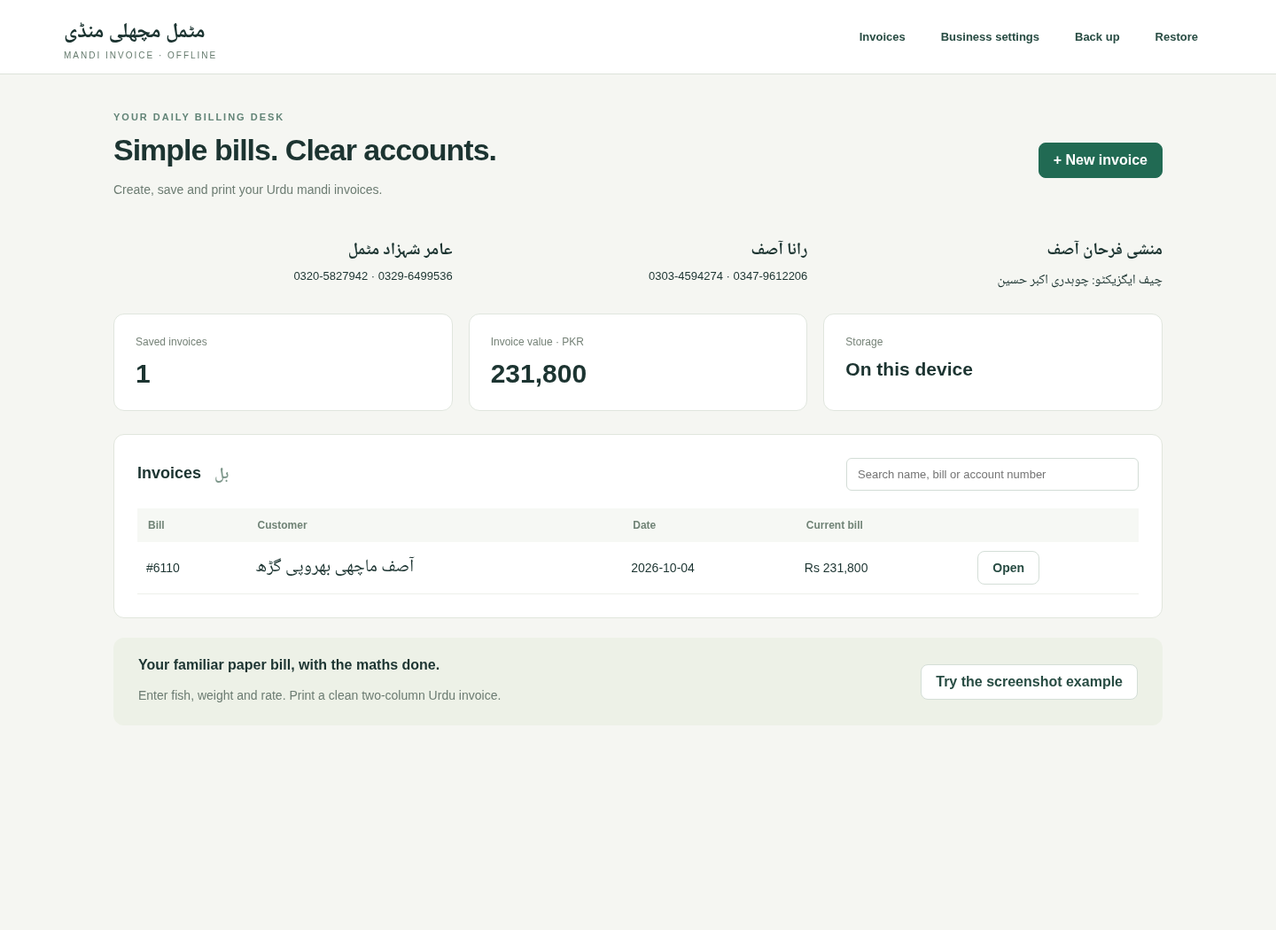
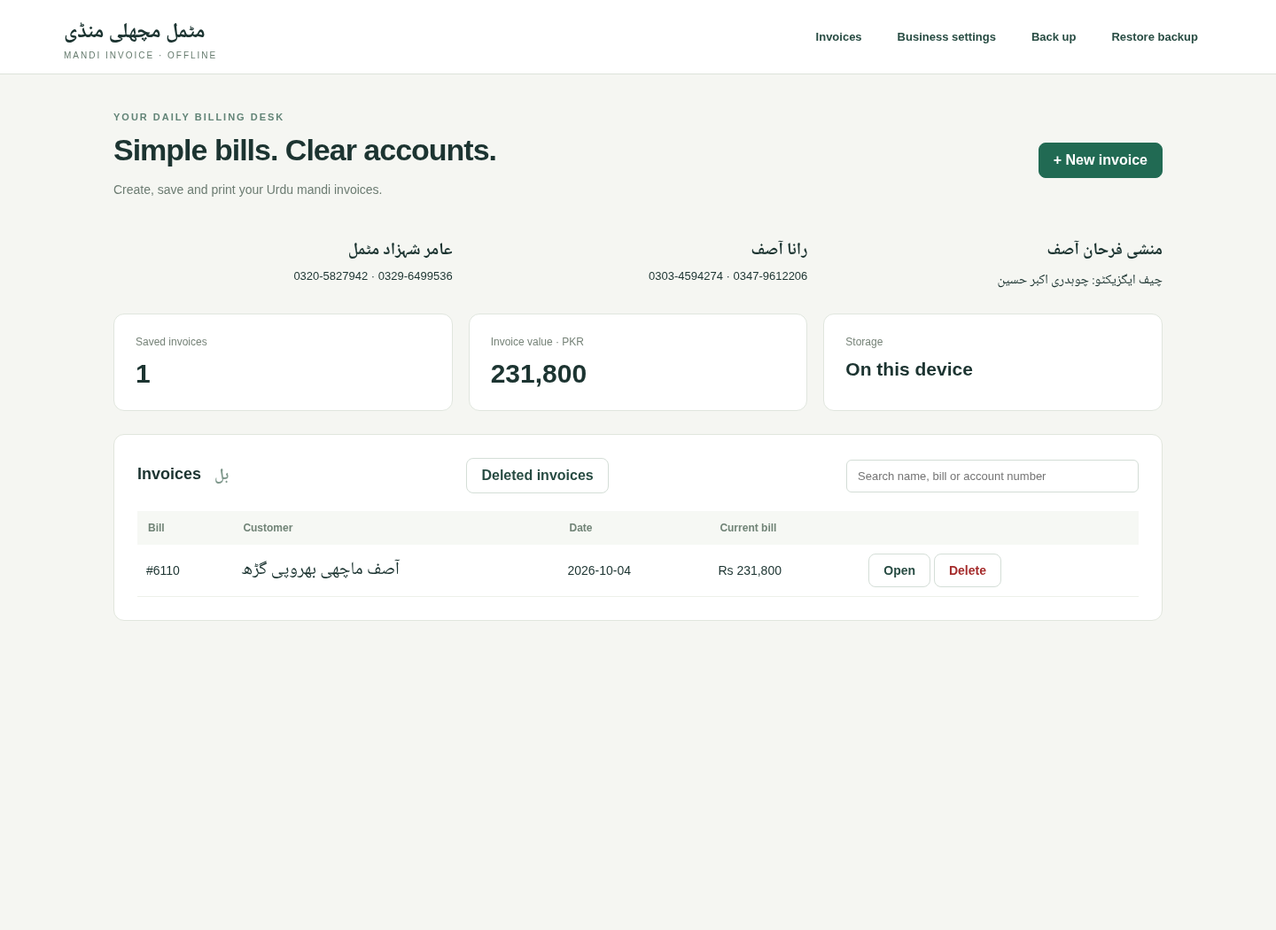
Add recoverable invoice deletion and save-discard-cancel navigation

diff --git a/src/app.js b/src/app.js
@@ -1,20 +1,30 @@
-import {customerKey,customerOption,findCustomer,closingBalance,effectiveInvoice,validateCustomerLinks} from './customer-balance.js';
+import {ask} from './dialogs.js';
+import {customerKey,customerOption,findCustomer,closingBalance,effectiveInvoice,validateCustomerLinks,deleteInvoice,restoreInvoice} from './customer-balance.js';
 import {pickerHTML,bindPicker} from './fish-picker.js';
-import {blankInvoice,sampleInvoice,species,totals,validateInvoice,validateStore,emptyStore,defaultBusiness,upgradeBusinessDefaults} from './model.js';
+import {blankInvoice,species,totals,validateInvoice,validateStore,emptyStore,defaultBusiness,upgradeBusinessDefaults} from './model.js';
 import {invoiceHTML,esc,money} from './print.js';
 const app=document.querySelector('#app');
-let store, draft, dirty=false, picker;
+let store, draft, dirty=false, picker, leavePromise, saving=false;
+const activeInvoices=()=>store.invoices.filter(i=>!i.deletedAt);
 const localKey='mandi-invoice-v1';
 const toast=(text,error=false)=>{const el=document.querySelector('#toast');el.textContent=text;el.className=error?'visible error':'visible';setTimeout(()=>el.className='',5000);};
-async function persist(next){validateCustomerLinks(next.invoices);if(window.desktop)await window.desktop.save(next);else localStorage.setItem(localKey,JSON.stringify(next));store=next;renderBrand();}
+async function persist(next){validateCustomerLinks(next.invoices);const controls=[...document.querySelectorAll('button,input,textarea')].map(el=>[el,el.disabled]);controls.forEach(([el])=>el.disabled=true);try{if(window.desktop)await window.desktop.save(next);else localStorage.setItem(localKey,JSON.stringify(next));store=next;renderBrand();}finally{controls.forEach(([el,disabled])=>el.disabled=disabled);}}
 function renderBrand(){document.querySelector('.brand').textContent=store.business.name;document.title=store.business.name+' · Mandi Invoice';}
-function leave(){return !dirty||confirm('Leave without saving your changes?');}
+async function leave(){
+ if(leavePromise)return leavePromise;
+ if(saving){toast('Please wait for saving to finish.');return false;}
+ if(!dirty)return true;
+ leavePromise=(async()=>{const choice=await ask({title:'Save your changes?',message:'You have unsaved changes. Save them before leaving, or discard them.',choices:[{value:'cancel',label:'Cancel'},{value:'discard',label:'Discard changes'},{value:'save',label:'Save changes',primary:true}]});
+ if(choice==='discard'){dirty=false;return true;}
+ if(choice==='save')return document.querySelector('#business')?await saveSettings():await save();
+ return false;})();try{return await leavePromise;}finally{leavePromise=null;}
+}
 function nextNumber(){return String(Math.max(0,...store.invoices.map(i=>Number(i.number)||0))+1);}
-function home(){dirty=false;draft=null;renderBrand();app.innerHTML=`<section class="page-title"><div><span class="eyebrow">YOUR DAILY BILLING DESK</span><h1>Simple bills. Clear accounts.</h1><p>Create, save and print your Urdu mandi invoices.</p></div><button class="primary" id="new">+ New invoice</button></section><section class="business-contacts" aria-label="Business contacts"><div dir="rtl"><strong>${esc(store.business.leftName)}</strong><span dir="ltr">${esc(store.business.leftPhones).replaceAll('\n',' · ')}</span></div><div dir="rtl"><strong>${esc(store.business.rightName)}</strong><span dir="ltr">${esc(store.business.rightPhones).replaceAll('\n',' · ')}</span></div><div dir="rtl"><strong>${esc(store.business.manager)}</strong><span>${esc(store.business.tagline)}</span></div></section><div class="stats"><div><span>Saved invoices</span><strong>${store.invoices.length}</strong></div><div><span>Invoice value · PKR</span><strong>${money(store.invoices.reduce((s,i)=>s+totals(i).current,0))}</strong></div><div><span>Storage</span><strong class="small">On this device</strong></div></div><section class="card"><div class="section-head"><h2>Invoices <span class="urdu">بل</span></h2><input id="search" placeholder="Search name, bill or account number" aria-label="Search invoices"></div><div id="list"></div></section><section class="tip"><div><strong>Your familiar paper bill, with the maths done.</strong><p>Enter fish, weight and rate. Print a clean two-column Urdu invoice.</p></div><button id="sample">Try the screenshot example</button></section>`;
- document.querySelector('#new').onclick=()=>editor({...blankInvoice(),number:nextNumber()});document.querySelector('#sample').onclick=()=>editor(sampleInvoice());
- const list=()=>{const q=document.querySelector('#search').value.toLowerCase();const found=store.invoices.filter(i=>[i.customer,i.number,i.account].some(v=>v.toLowerCase().includes(q)));document.querySelector('#list').innerHTML=found.length?`<table class="list-table"><thead><tr><th>Bill</th><th>Customer</th><th>Date</th><th>Current bill</th><th></th></tr></thead><tbody>${found.map(i=>`<tr><td>#${esc(i.number)}</td><td dir="rtl">${esc(i.customer)}</td><td>${esc(i.date)}</td><td>Rs ${money(totals(i).current)}</td><td><button data-open="${esc(i.id)}">Open</button></td></tr>`).join('')}</tbody></table>`:'<div class="empty-state"><span>▤</span><h3>No invoices here yet</h3><p>Start a new bill or try the screenshot example.</p></div>';document.querySelectorAll('[data-open]').forEach(b=>b.onclick=()=>editor(structuredClone(store.invoices.find(i=>i.id===b.dataset.open))));};document.querySelector('#search').oninput=list;list();}
+function home(showTrash=false){dirty=false;draft=null;renderBrand();app.innerHTML=`<section class="page-title"><div><span class="eyebrow">YOUR DAILY BILLING DESK</span><h1>Simple bills. Clear accounts.</h1><p>Create, save and print your Urdu mandi invoices.</p></div><button class="primary" id="new">+ New invoice</button></section><section class="business-contacts" aria-label="Business contacts"><div dir="rtl"><strong>${esc(store.business.leftName)}</strong><span dir="ltr">${esc(store.business.leftPhones).replaceAll('\n',' · ')}</span></div><div dir="rtl"><strong>${esc(store.business.rightName)}</strong><span dir="ltr">${esc(store.business.rightPhones).replaceAll('\n',' · ')}</span></div><div dir="rtl"><strong>${esc(store.business.manager)}</strong><span>${esc(store.business.tagline)}</span></div></section><div class="stats"><div><span>Saved invoices</span><strong>${activeInvoices().length}</strong></div><div><span>Invoice value · PKR</span><strong>${money(activeInvoices().reduce((s,i)=>s+totals(i).current,0))}</strong></div><div><span>Storage</span><strong class="small">On this device</strong></div></div><section class="card"><div class="section-head"><h2>${showTrash?'Deleted invoices':'Invoices'} <span class="urdu">بل</span></h2><button id="toggle-trash">${showTrash?'Back to invoices':'Deleted invoices'}</button><input id="search" placeholder="Search name, bill or account number" aria-label="Search invoices"></div><div id="list"></div></section>`;
+ document.querySelector('#new').onclick=()=>editor({...blankInvoice(),number:nextNumber()});
+ const list=()=>{const q=document.querySelector('#search').value.toLowerCase();const found=store.invoices.filter(i=>Boolean(i.deletedAt)===showTrash).filter(i=>[i.customer,i.number,i.account].some(v=>v.toLowerCase().includes(q)));document.querySelector('#list').innerHTML=found.length?`<table class="list-table"><thead><tr><th>Bill</th><th>Customer</th><th>Date</th><th>Current bill</th><th></th></tr></thead><tbody>${found.map(i=>`<tr><td>#${esc(i.number)}</td><td dir="rtl">${esc(i.customer)}</td><td>${esc(i.date)}</td><td>Rs ${money(totals(i).current)}</td><td>${showTrash?`<button data-restore="${esc(i.id)}">Restore</button>`:`<button data-open="${esc(i.id)}">Open</button> <button class="danger" data-delete="${esc(i.id)}">Delete</button>`}</td></tr>`).join('')}</tbody></table>`:`<div class="empty-state"><span>▤</span><h3>${showTrash?'No deleted invoices':'No invoices here yet'}</h3><p>${showTrash?'Invoices you delete will appear here for recovery.':'Create your first invoice to start tracking sales and customer balances.'}</p></div>`;document.querySelectorAll('[data-open]').forEach(b=>b.onclick=()=>editor(structuredClone(store.invoices.find(i=>i.id===b.dataset.open))));document.querySelectorAll('[data-delete]').forEach(b=>b.onclick=()=>removeInvoice(b.dataset.delete));document.querySelectorAll('[data-restore]').forEach(b=>b.onclick=async()=>{try{await persist({...store,invoices:restoreInvoice(store.invoices,b.dataset.restore)});home(true);toast('Invoice restored.');}catch(e){toast(e.message,true);}});};document.querySelector('#toggle-trash').onclick=()=>home(!showTrash);document.querySelector('#search').oninput=list;list();}
 function field(label,key,value,type='text',extra=''){return `<label>${label}<input name="${key}" type="${type}" value="${esc(value)}" ${extra}></label>`;}
-function editor(i){i=effectiveInvoice(i,store.invoices);draft=i;dirty=false;app.innerHTML=`<section class="editor-title"><div><span class="eyebrow">NEW / EDIT INVOICE</span><h1>Make a bill <span class="urdu">نیا بل</span></h1></div><div class="actions"><button id="cancel">Back</button><button id="preview">Preview & print</button><button class="primary" id="save">Save invoice</button></div></section><form id="editor"><section class="card"><h2><em>1</em> Customer & bill details</h2><div class="fields">${field('Customer name · نام گاہک','customer',i.customer,'text','dir="auto" list="customers" required')}${field('Phone · فون','phone',i.phone)}${field('Address · پتہ','address',i.address,'text','dir="auto"')}${field('Account number · کھاتہ','account',i.account)}${field('Bill number · بل نمبر','number',i.number,'text','required')}${field('Date · تاریخ','date',i.date,'date','required')}</div></section><section class="card"><div class="section-head"><h2><em>2</em> Fish, weight & rate</h2><span class="help">Rate per 40 kg (1 maund) · Fractions of a rupee rounded down per row</span></div>${pickerHTML()}<div class="item-scroll"><table class="items"><thead><tr><th>#</th><th>Fish · تفصیل</th><th>Weight (kg) · وزن</th><th>Rate / 40 kg · ریٹ</th><th>Amount · قیمت</th><th></th></tr></thead><tbody id="rows"></tbody></table></div><datalist id="customers">${[...new Set(store.invoices.map(customerOption))].map(n=>`<option value="${esc(n)}">`).join('')}</datalist><datalist id="species">${[...new Set([...species,...store.invoices.flatMap(i=>i.rows.map(r=>r.species))])].map(s=>`<option value="${esc(s)}">`).join('')}</datalist><button type="button" id="add">+ Add fish</button><div class="item-total" id="item-total"></div></section><section class="card"><h2><em>3</em> Charges & balance</h2><div class="fields charges">${field('Commission (%) · کمیشن','commission',i.commission,'number','min="0" max="100" step="0.01"')}${field('Munshiana / fee (Rs) · منشیانہ','fee',i.fee,'number','min="0" step="1"')}${field('Labour (Rs) · مزدوری','labour',i.labour,'number','min="0" step="1"')}${field('Freight (Rs) · کرایہ','freight',i.freight,'number','min="0" step="1"')}${field('Other charges (Rs) · دیگر','other',i.other,'number','min="0" step="1"')}${field('Previous balance (Rs) · سابقہ بقایا','previous',i.previous,'number',`step="1" ${i.previousSourceId?'readonly':''}`)}${field('Received (Rs) · نقد وصولی','paid',i.paid,'number','min="0" step="1"')}${field('Note · نوٹ','notes',i.notes,'text','dir="auto"')}</div><p id="balance-help" class="help">Returning customer balances fill automatically from their latest saved bill. Negative amounts are customer credit.</p></section><div id="live-totals" class="totals-bar" aria-live="polite"></div><p id="validation" role="alert"></p></form>`;
+function editor(i){i=effectiveInvoice(i,store.invoices);draft=i;dirty=false;app.innerHTML=`<section class="editor-title"><div><span class="eyebrow">NEW / EDIT INVOICE</span><h1>Make a bill <span class="urdu">نیا بل</span></h1></div><div class="actions"><button id="cancel">Back</button><button id="preview">Preview & print</button><button class="primary" id="save">Save invoice</button></div></section><form id="editor"><section class="card"><h2><em>1</em> Customer & bill details</h2><div class="fields">${field('Customer name · نام گاہک','customer',i.customer,'text','dir="auto" list="customers" required')}${field('Phone · فون','phone',i.phone)}${field('Address · پتہ','address',i.address,'text','dir="auto"')}${field('Account number · کھاتہ','account',i.account)}${field('Bill number · بل نمبر','number',i.number,'text','required')}${field('Date · تاریخ','date',i.date,'date','required')}</div></section><section class="card"><div class="section-head"><h2><em>2</em> Fish, weight & rate</h2><span class="help">Rate per 40 kg (1 maund) · Fractions of a rupee rounded down per row</span></div>${pickerHTML()}<div class="item-scroll"><table class="items"><thead><tr><th>#</th><th>Fish · تفصیل</th><th>Weight (kg) · وزن</th><th>Rate / 40 kg · ریٹ</th><th>Amount · قیمت</th><th></th></tr></thead><tbody id="rows"></tbody></table></div><datalist id="customers">${[...new Set(activeInvoices().map(customerOption))].map(n=>`<option value="${esc(n)}">`).join('')}</datalist><datalist id="species">${[...new Set([...species,...store.invoices.flatMap(i=>i.rows.map(r=>r.species))])].map(s=>`<option value="${esc(s)}">`).join('')}</datalist><button type="button" id="add">+ Add fish</button><div class="item-total" id="item-total"></div></section><section class="card"><h2><em>3</em> Charges & balance</h2><div class="fields charges">${field('Commission (%) · کمیشن','commission',i.commission,'number','min="0" max="100" step="0.01"')}${field('Munshiana / fee (Rs) · منشیانہ','fee',i.fee,'number','min="0" step="1"')}${field('Labour (Rs) · مزدوری','labour',i.labour,'number','min="0" step="1"')}${field('Freight (Rs) · کرایہ','freight',i.freight,'number','min="0" step="1"')}${field('Other charges (Rs) · دیگر','other',i.other,'number','min="0" step="1"')}${field('Previous balance (Rs) · سابقہ بقایا','previous',i.previous,'number',`step="1" ${i.previousSourceId?'readonly':''}`)}${field('Received (Rs) · نقد وصولی','paid',i.paid,'number','min="0" step="1"')}${field('Note · نوٹ','notes',i.notes,'text','dir="auto"')}</div><p id="balance-help" class="help">Returning customer balances fill automatically from their latest saved bill. Negative amounts are customer credit.</p></section><div id="live-totals" class="totals-bar" aria-live="polite"></div><p id="validation" role="alert"></p></form>`;
  drawRows();recalc();
  picker=bindPicker({onChange:()=>dirty=true,onAdd:row=>{if(draft.rows.length===1&&Number(draft.rows[0].weight)===0&&Number(draft.rows[0].rate)===0)draft.rows[0]=row;else draft.rows.push(row);dirty=true;drawRows();recalc();}});
  document.querySelector('[name=customer]').addEventListener('change',e=>{try{
@@ -27,16 +37,27 @@ function editor(i){i=effectiveInvoice(i,store.invoices);draft=i;dirty=false;app.
  }catch(err){toast(err.message,true);}});
  document.querySelector('#editor').onsubmit=e=>e.preventDefault();document.querySelector('#editor').oninput=e=>{if(e.target.name){draft[e.target.name]=e.target.value;dirty=true;recalc();}};
  document.querySelector('#add').onclick=()=>{draft.rows.push({species:species[0],weight:0,rate:0});dirty=true;drawRows();recalc();document.querySelector('#rows tr:last-child input').focus();};
- document.querySelector('#save').onclick=save;document.querySelector('#preview').onclick=()=>{try{if(picker?.hasPending())throw new Error('Add the entered lot before saving or previewing.');if(!draft.previousSourceId&&!store.invoices.some(x=>x.id===draft.id)){const matched=findCustomer(store.invoices,draft.customer);if(matched&&!draft.previousSourceId)throw new Error('Select the returning customer before saving or previewing.');}draft=effectiveInvoice(draft,store.invoices);validateInvoice(draft);preview();}catch(e){toast(e.message,true);}};document.querySelector('#cancel').onclick=()=>{if(leave())home();};}
+ document.querySelector('#save').onclick=save;document.querySelector('#preview').onclick=()=>{try{if(picker?.hasPending())throw new Error('Add the entered lot before saving or previewing.');if(!draft.previousSourceId&&!store.invoices.some(x=>x.id===draft.id)){const matched=findCustomer(store.invoices,draft.customer);if(matched&&!draft.previousSourceId)throw new Error('Select the returning customer before saving or previewing.');}draft=effectiveInvoice(draft,store.invoices);validateInvoice(draft);preview();}catch(e){toast(e.message,true);}};document.querySelector('#cancel').onclick=async()=>{if(await leave())home();};}
 function drawRows(){document.querySelector('#rows').innerHTML=draft.rows.map((r,j)=>`<tr><td>${j+1}</td><td><input aria-label="Fish ${j+1}" data-row="${j}" data-key="species" dir="rtl" list="species" value="${esc(r.species)}"></td><td><input aria-label="Weight ${j+1}" data-row="${j}" data-key="weight" type="number" min="0" step="0.001" value="${r.weight}"></td><td><input aria-label="Rate ${j+1}" data-row="${j}" data-key="rate" type="number" min="0" step="0.01" value="${r.rate}"></td><td data-amount="${j}"></td><td><button type="button" aria-label="Remove item ${j+1}" data-remove="${j}" ${draft.rows.length===1?'disabled':''}>×</button></td></tr>`).join('');document.querySelectorAll('[data-row]').forEach(el=>el.oninput=()=>{draft.rows[Number(el.dataset.row)][el.dataset.key]=el.value;dirty=true;recalc();});document.querySelectorAll('[data-remove]').forEach(el=>el.onclick=()=>{draft.rows.splice(Number(el.dataset.remove),1);dirty=true;drawRows();recalc();});}
 function recalc(){try{const t=totals(draft);document.querySelector('#validation').textContent='';t.lines.forEach((n,j)=>document.querySelector(`[data-amount="${j}"]`).textContent=money(n));document.querySelector('#item-total').textContent=`${t.weight} kg · ${t.maunds} maund + ${t.remainder} kg · Goods: Rs ${money(t.subtotal)}`;document.querySelector('#live-totals').innerHTML=`<div><span>Goods + commission + fee</span><strong>Rs ${money(t.merchandise)}</strong></div><div><span>This bill · موجودہ بل</span><strong>Rs ${money(t.current)}</strong></div><div><span>Balance due · واجب الوصول</span><strong>Rs ${money(t.balance)}</strong></div>`;}catch(e){document.querySelector('#validation').textContent=e.message;document.querySelector('#live-totals').textContent='Complete the amounts above to calculate totals.';}}
-async function save(){try{if(picker?.hasPending())throw new Error('Add the entered lot before saving or previewing.');if(!draft.previousSourceId&&!store.invoices.some(x=>x.id===draft.id)){const matched=findCustomer(store.invoices,draft.customer);if(matched&&!draft.previousSourceId)throw new Error('Select the returning customer before saving or previewing.');}draft=effectiveInvoice(draft,store.invoices);validateInvoice(draft);if(store.invoices.some(i=>i.number===draft.number&&i.id!==draft.id))throw new Error('That bill number already exists. Choose a different number.');draft.business ??= structuredClone(store.business);const next=structuredClone(store);const idx=next.invoices.findIndex(i=>i.id===draft.id);if(idx>=0)next.invoices[idx]=structuredClone(draft);else next.invoices.unshift(structuredClone(draft));validateCustomerLinks(next.invoices);await persist(next);dirty=false;toast('Invoice saved on this device.');}catch(e){toast(e.message,true);}}
+async function save(){if(saving)return false;saving=true;try{if(picker?.hasPending())throw new Error('Add the entered lot before saving or previewing.');if(!draft.previousSourceId&&!store.invoices.some(x=>x.id===draft.id)){const matched=findCustomer(store.invoices,draft.customer);if(matched&&!draft.previousSourceId)throw new Error('Select the returning customer before saving or previewing.');}draft=effectiveInvoice(draft,store.invoices);validateInvoice(draft);if(store.invoices.some(i=>i.number===draft.number&&i.id!==draft.id))throw new Error('That bill number already exists. Choose a different number.');draft.business ??= structuredClone(store.business);const next=structuredClone(store);const idx=next.invoices.findIndex(i=>i.id===draft.id);if(idx>=0)next.invoices[idx]=structuredClone(draft);else next.invoices.unshift(structuredClone(draft));validateCustomerLinks(next.invoices);await persist(next);dirty=false;toast('Invoice saved on this device.');return true;}catch(e){toast(e.message,true);return false;}finally{saving=false;}}
 function preview(){app.innerHTML=`<div class="preview-toolbar"><button id="edit">← Back to editing</button><span>Print preview · A4 landscape · 100% scale · no browser headers</span><div class="actions"><button id="print">Print</button><button id="save-pdf" class="primary">Save as PDF</button></div></div><div class="print-area">${invoiceHTML(draft,draft.business||store.business)}</div>`;document.querySelector('#edit').onclick=()=>{const wasDirty=dirty;editor(draft);dirty=wasDirty;};async function output(kind){const buttons=[...document.querySelectorAll('.app-header button,.preview-toolbar button')];buttons.forEach(b=>b.disabled=true);try{await document.fonts.ready;if(kind==='pdf'&&window.desktop){if(await window.desktop.savePDF(draft.number))toast('PDF saved.');}else if(window.desktop)await window.desktop.print();else{if(kind==='pdf')toast('In your browser, choose Save as PDF in the print dialog. The desktop app saves directly.');window.print();}}catch(e){toast(e.message,true);}finally{buttons.forEach(b=>b.disabled=false);}}document.querySelector('#print').onclick=()=>output('print');document.querySelector('#save-pdf').onclick=()=>output('pdf');}
-function settings(){if(!leave())return;dirty=false;draft=null;app.innerHTML=`<section class="page-title"><div><span class="eyebrow">SET UP ONCE</span><h1>Your business, your bill.</h1><p>All Urdu names and contact details are editable. Confirm the small text against your original invoice.</p></div></section><form id="business" class="card"><div class="fields">${Object.entries(store.business).map(([k,v])=>`<label>${esc(({name:'Business name',subtitle:'Address',tagline:'Tagline',rightTitle:'Owner title',rightName:'Owner name',rightPhones:'Owner phone numbers',leftName:'Left contact name',leftPhones:'Left contact phone',manager:'Manager',managerPhones:'Manager phone numbers'})[k]||k)}<textarea name="${esc(k)}" dir="auto">${esc(v)}</textarea></label>`).join('')}</div><div class="settings-actions"><button class="primary">Save settings</button><button type="button" id="apply-sign">Use details from the shop sign</button></div></form>`;document.querySelector('#apply-sign').onclick=()=>{if(!confirm('Replace these business fields with the details from the shop sign? Save settings to apply. Existing saved invoice headers stay unchanged.'))return;for(const [key,value] of Object.entries(defaultBusiness))document.querySelector(`#business [name=${key}]`).value=value;dirty=true;};document.querySelector('#business').oninput=()=>dirty=true;document.querySelector('#business').onsubmit=async e=>{e.preventDefault();try{const business=Object.fromEntries(new FormData(e.target));if(!business.name.trim())throw new Error('Enter a business name.');await persist({...store,business});dirty=false;toast('Business settings saved.');home();}catch(err){toast(err.message,true);}};}
+async function settings(){if(!await leave())return;dirty=false;draft=null;app.innerHTML=`<section class="page-title"><div><span class="eyebrow">SET UP ONCE</span><h1>Your business, your bill.</h1><p>All Urdu names and contact details are editable. Confirm the small text against your original invoice.</p></div></section><form id="business" class="card"><div class="fields">${Object.entries(store.business).map(([k,v])=>`<label>${esc(({name:'Business name',subtitle:'Address',tagline:'Tagline',rightTitle:'Owner title',rightName:'Owner name',rightPhones:'Owner phone numbers',leftName:'Left contact name',leftPhones:'Left contact phone',manager:'Manager',managerPhones:'Manager phone numbers'})[k]||k)}<textarea name="${esc(k)}" dir="auto">${esc(v)}</textarea></label>`).join('')}</div><div class="settings-actions"><button class="primary">Save settings</button><button type="button" id="apply-sign">Use details from the shop sign</button></div></form>`;document.querySelector('#apply-sign').onclick=()=>{if(!confirm('Replace these business fields with the details from the shop sign? Save settings to apply. Existing saved invoice headers stay unchanged.'))return;for(const [key,value] of Object.entries(defaultBusiness))document.querySelector(`#business [name=${key}]`).value=value;dirty=true;};document.querySelector('#business').oninput=()=>dirty=true;document.querySelector('#business').onsubmit=async e=>{e.preventDefault();if(await saveSettings())home();};}
+async function saveSettings(){if(saving)return false;saving=true;try{const business=Object.fromEntries(new FormData(document.querySelector('#business')));if(!business.name.trim())throw new Error('Enter a business name.');await persist({...store,business});dirty=false;toast('Business settings saved.');return true;}catch(e){toast(e.message,true);return false;}finally{saving=false;}}
+
 function download(name,data){const a=document.createElement('a');a.href=URL.createObjectURL(new Blob([data],{type:'application/json'}));a.download=name;a.click();setTimeout(()=>URL.revokeObjectURL(a.href),1000);}
-document.querySelector('#home').onclick=()=>{if(leave())home();};document.querySelector('#settings').onclick=settings;
+document.querySelector('#home').onclick=async()=>{if(await leave())home();};document.querySelector('#settings').onclick=settings;
 document.querySelector('#backup').onclick=async()=>{try{const data=JSON.stringify(store,null,2);if(window.desktop){if(await window.desktop.backup(data))toast('Backup saved.');}else{download(`mandi-backup-${new Date().toISOString().slice(0,10)}.json`,data);toast('Backup downloaded.');}}catch(e){toast(e.message,true);}};
-document.querySelector('#restore').onclick=()=>{if(leave())document.querySelector('#import-file').click();};
+document.querySelector('#restore').onclick=async()=>{if(await leave()){home();document.querySelector('#import-file').click();}};
 document.querySelector('#import-file').onchange=async e=>{try{const file=e.target.files[0];if(!file)return;if(file.size>10_000_000)throw new Error('Backup is too large (maximum 10 MB).');const next=validateStore(JSON.parse(await file.text()));if(!confirm(`Replace your saved data with ${next.invoices.length} invoices from this backup? Save a backup first if you need your current data.`))return;validateCustomerLinks(next.invoices);await persist(next);dirty=false;home();toast('Backup restored.');}catch(err){toast(err.message,true);}finally{e.target.value='';}};
-window.addEventListener('beforeunload',e=>{if(dirty){e.preventDefault();e.returnValue='';}});
+window.desktop?.onCloseRequest(async()=>{if(await leave())window.desktop.confirmClose();});
+window.addEventListener('beforeunload',e=>{if(!window.desktop&&(dirty||saving)){e.preventDefault();e.returnValue='';}});
 try{const saved=window.desktop?await window.desktop.load():JSON.parse(localStorage.getItem(localKey)||'null');store=saved?upgradeBusinessDefaults(saved):emptyStore();validateCustomerLinks(store.invoices);if(saved&&store!==saved)await persist(store);home();}catch(e){app.innerHTML=`<section class="card"><h1>Your saved data could not be opened</h1><p>${esc(e.message)}</p><p>Your existing data has been preserved. Restore a valid backup using the Restore button.</p></section>`;store=emptyStore();}
+
+async function removeInvoice(id){
+ const invoice=store.invoices.find(i=>i.id===id);if(!invoice)return;
+ try{deleteInvoice(store.invoices,id);}catch(e){toast(e.message,true);return;}
+ const choice=await ask({title:`Delete invoice #${invoice.number}?`,message:`${invoice.customer}: this bill will move to Deleted invoices and be excluded from active totals. You can restore it later.`,choices:[{value:'cancel',label:'Cancel'},{value:'delete',label:'Delete invoice'}]});
+ if(choice!=='delete')return;
+ try{await persist({...store,invoices:deleteInvoice(store.invoices,id)});home();toast('Invoice moved to Deleted invoices.');}catch(e){toast(e.message,true);}
+}

diff --git a/src/style.css b/src/style.css
@@ -7,3 +7,5 @@
 .business-contacts{display:grid;grid-template-columns:repeat(3,1fr);gap:18px;margin-bottom:24px}.business-contacts>div{display:flex;flex-direction:column;gap:5px;font-family:Urdu,serif}.business-contacts strong{font-size:19px}.business-contacts span{font-size:15px}.business-contacts span[dir=ltr]{font-family:Arial,sans-serif;font-size:13px;text-align:right}.settings-actions{display:flex;gap:12px;margin-top:18px;flex-wrap:wrap}.brand{font-size:24px}@media(max-width:850px){.business-contacts{grid-template-columns:1fr}}
 
 .fish-picker{border:1px solid #cad5e2;border-radius:16px;padding:20px;margin-bottom:24px;box-shadow:0 2px 4px #18233615;background:white;color:#10182c}.fish-choice{display:flex;align-items:center;flex-wrap:wrap;gap:8px;margin-bottom:20px}.fish-choice>strong{font-family:Urdu,serif;font-size:21px;margin-right:10px}.fish-chip{font-family:Urdu,serif;font-size:20px;min-width:65px;border:2px solid #98a7bd;border-radius:11px;color:#10182c;padding:6px 13px}.fish-chip[aria-pressed=true]{background:#10182c;border-color:#10182c;color:white}.selected-check{display:none;margin-right:10px;font-family:Arial,sans-serif}.fish-chip[aria-pressed=true] .selected-check{display:inline}.quick-fields{display:grid;grid-template-columns:1.4fr 1.4fr 1fr 1.2fr;gap:14px;align-items:stretch}.quick-fields label>span{position:absolute;width:1px;height:1px;overflow:hidden;clip-path:inset(50%)}.quick-fields input{height:100%;min-height:70px;border:2px solid #aaa;border-radius:10px;font-family:Urdu,Arial,sans-serif;font-size:22px;font-weight:bold;color:#10182c}.quick-fields output{background:#eff6ff;border:2px solid #60a5fa;border-radius:12px;display:flex;align-items:center;justify-content:center;flex-direction:column;padding:12px;color:#2345b5;font-weight:bold}.quick-fields output span{font-family:Urdu,Arial,sans-serif;font-size:17px}.quick-fields output strong{font-size:27px;margin-top:5px}#add-lot{background:#10182c;color:white;border-radius:12px;font-family:Urdu,Arial,sans-serif;font-size:22px;box-shadow:0 3px 4px #0002}.custom-fish{display:flex;align-items:center;gap:12px;margin-top:12px;font-size:12px;color:#667085}.custom-fish input{max-width:230px;padding:6px 10px}#lot-error{color:#aa2424;margin:8px 0 0}#lot-error:empty{display:none}@media(max-width:1000px){.quick-fields{grid-template-columns:1fr 1fr}}@media(max-width:500px){.quick-fields{grid-template-columns:1fr}.custom-fish{flex-wrap:wrap}}
+
+.decision-dialog{border:1px solid #d1dace;border-radius:16px;padding:28px;max-width:480px;width:calc(100% - 32px);color:#1c3431;box-shadow:0 20px 80px #0004}.decision-dialog::backdrop{background:#10281e88}.dialog-actions{display:flex;gap:10px;justify-content:flex-end;flex-wrap:wrap;margin-top:24px}.danger{color:#a52c2c}

diff --git a/src/customer-balance.js b/src/customer-balance.js
@@ -3,6 +3,7 @@ const clean=s=>String(s||'').normalize('NFKC').trim().replace(/\s+/g,' ').toLoca
 export function customerKey(i){return i.account?.trim()?`account:${clean(i.account)}`:i.phone?.trim()?`phone:${i.phone.replace(/\D/g,'')}`:`name:${clean(i.customer)}`;}
 export function customerOption(i){return `${i.customer} — ${i.account||i.phone||'Customer'}`;}
 export function findCustomer(invoices,text){
+ invoices=invoices.filter(i=>!i.deletedAt);
  const exact=invoices.filter(i=>customerOption(i)===text);
  const matches=exact.length?exact:invoices.filter(i=>clean(i.customer)===clean(text));
  if(new Set(matches.map(customerKey)).size>1)throw new Error('Several customers have this name. Choose the entry with their account or phone number.');
@@ -19,3 +20,13 @@ export function effectiveInvoice(invoice,invoices,seen=new Set()){
 }
 export function closingBalance(invoice,invoices){return totals(effectiveInvoice(invoice,invoices)).balance;}
 export function validateCustomerLinks(invoices){for(const i of invoices)effectiveInvoice(i,invoices);}
+export function deleteInvoice(invoices,id){
+ const invoice=invoices.find(i=>i.id===id&&!i.deletedAt);if(!invoice)throw new Error('Invoice not found.');
+ if(invoices.some(i=>!i.deletedAt&&i.previousSourceId===id))throw new Error('A later invoice carries this balance. Delete the later linked invoices first, or keep this bill for the account history.');
+ return invoices.map(i=>i.id===id?{...i,deletedAt:new Date().toISOString()}:i);
+}
+export function restoreInvoice(invoices,id){
+ const invoice=invoices.find(i=>i.id===id&&i.deletedAt);if(!invoice)throw new Error('Deleted invoice not found.');
+ if(invoice.previousSourceId&&!invoices.some(i=>i.id===invoice.previousSourceId&&!i.deletedAt))throw new Error('Restore the previous linked invoice first.');
+ const result=invoices.map(i=>{if(i.id!==id)return i;const restored={...i};delete restored.deletedAt;return restored;});validateCustomerLinks(result);return result;
+}

diff --git a/test/model.test.js b/test/model.test.js
@@ -1,4 +1,4 @@
-import {customerOption,findCustomer,closingBalance,effectiveInvoice,validateCustomerLinks} from '../src/customer-balance.js';
+import {customerOption,findCustomer,closingBalance,effectiveInvoice,validateCustomerLinks,deleteInvoice,restoreInvoice} from '../src/customer-balance.js';
 import test from 'node:test';
 import assert from 'node:assert/strict';
 import {sampleInvoice,totals,validateInvoice,validateStore,emptyStore,defaultBusiness,legacyBusiness,upgradeBusinessDefaults,species} from '../src/model.js';
@@ -46,4 +46,14 @@ test('duplicate names require account selection and unsafe customer links are re
  assert.throws(()=>validateCustomerLinks([a,{...b,previousSourceId:'a'}]),/different customer/);
  assert.throws(()=>validateCustomerLinks([{...a,previousSourceId:'missing'}]),/missing/);
  assert.throws(()=>validateCustomerLinks([{...a,previousSourceId:'a'}]),/Circular/);
+});
+
+test('invoice deletion is reversible and protects linked balances',()=>{
+ const a={...sampleInvoice(),id:'a'},b={...sampleInvoice(),id:'b',number:'6111',previousSourceId:'a'};
+ assert.throws(()=>deleteInvoice([b,a],'a'),/later invoice/);
+ const deleted=deleteInvoice([b,a],'b');assert.equal(findCustomer(deleted,a.customer).id,'a');
+ assert.ok(deleted[0].deletedAt);assert.ok(!b.deletedAt);
+ const both=deleteInvoice(deleted,'a');assert.throws(()=>restoreInvoice(both,'b'),/previous linked/);
+ const restored=restoreInvoice(restoreInvoice(both,'a'),'b');assert.equal(restored[0].deletedAt,undefined);
+ assert.equal(closingBalance(restored[0],restored),closingBalance(b,[b,a]));
 });

diff --git a/src/index.html b/src/index.html
@@ -1,3 +1,3 @@
 <!doctype html><html lang="en"><head><meta charset="utf-8"><meta name="viewport" content="width=device-width,initial-scale=1"><meta http-equiv="Content-Security-Policy" content="default-src 'self'; style-src 'self'; font-src 'self'; img-src 'self' data:; script-src 'self'; connect-src 'self'"><title>Mandi Invoice</title><link rel="stylesheet" href="style.css"></head><body>
-<header class="app-header"><div><span class="brand">M<span> / </span> منڈی</span><span class="brand-sub">MANDI INVOICE · OFFLINE</span></div><nav><button id="home">Invoices</button><button id="settings">Business settings</button><button id="backup">Back up</button><button id="restore">Restore</button></nav></header>
+<header class="app-header"><div><span class="brand">M<span> / </span> منڈی</span><span class="brand-sub">MANDI INVOICE · OFFLINE</span></div><nav><button id="home">Invoices</button><button id="settings">Business settings</button><button id="backup">Back up</button><button id="restore">Restore backup</button></nav></header>
 <main id="app"></main><div id="toast" role="status" aria-live="polite"></div><input type="file" id="import-file" accept="application/json,.json" hidden><script type="module" src="app.js"></script></body></html>

diff --git a/src/dialogs.js b/src/dialogs.js
@@ -1,0 +1,10 @@
+import {esc} from './print.js';
+export function ask({title,message,choices}){
+ return new Promise(resolve=>{
+  const dialog=document.createElement('dialog');dialog.className='decision-dialog';dialog.setAttribute('aria-labelledby','decision-title');
+  dialog.innerHTML=`<h2 id="decision-title">${esc(title)}</h2><p>${esc(message)}</p><div class="dialog-actions">${choices.map(c=>`<button type="button" data-choice="${esc(c.value)}" class="${c.primary?'primary':''}">${esc(c.label)}</button>`).join('')}</div>`;
+  const done=value=>{dialog.close();dialog.remove();resolve(value);};
+  dialog.addEventListener('cancel',e=>{e.preventDefault();done('cancel');});
+  dialog.querySelectorAll('[data-choice]').forEach(b=>b.onclick=()=>done(b.dataset.choice));document.body.append(dialog);dialog.showModal();dialog.querySelector('[data-choice="cancel"]')?.focus();
+ });
+}

diff --git a/README.md b/README.md
@@ -44,6 +44,12 @@ Edit the business name, Urdu address, owner and manager contact details.
 
 To regenerate these screenshots from the repository root, run `node scripts/screenshots.mjs` after `npm ci`. This uses a fresh browser profile and does not modify your saved desktop invoices. Chromium must be installed; set `CHROMIUM_PATH` if it is not at `/usr/bin/chromium`.
 
+### Unsaved changes and recovery
+
+![Save, discard or cancel unsaved changes](docs/screenshots/06-unsaved-changes.png)
+
+![Recover deleted invoices](docs/screenshots/07-deleted-invoices.png)
+
 ## Use it
 
 1. Open the app and choose **Business settings**. Confirm the Urdu business name, address and contact numbers.
@@ -53,7 +59,12 @@ To regenerate these screenshots from the repository root, run `node scripts/scre
 5. **Save invoice**, then **Preview & print → Print or Save as PDF**. Use A4 landscape, 100% scale, no browser headers, and backgrounds enabled. Print opens the printer dialog. Save as PDF opens a file-save dialog directly and exports the full invoice.
 6. Use **Back up** regularly. **Restore** validates a backup and asks before replacing data.
 
-**Try the screenshot example** loads all 17 screenshot rows and sample details. Sample prices never populate a new bill. Unsaved edits prompt before navigation/closing. Saved bill numbers must be unique. A saved invoice captures its business header so later business changes do not rewrite it.
+The app opens with your own invoice list; no demo action is shown. Saved bill numbers remain unique, including deleted invoices. A saved invoice captures its business header so later business changes do not rewrite it.
+
+**Delete and restore:** Delete moves a bill to Deleted invoices after confirmation. Restore brings it back. A bill used for a later active customer's balance cannot be deleted until those dependent bills are deleted first. No permanent-delete option is provided.
+
+**Unsaved changes:** Closing the desktop app or switching screens offers Save changes, Discard changes, and Cancel. Saving must succeed before closing; invalid or incomplete details keep the app open. Business settings use the same guard. Browser refresh/close uses the browser's built-in warning instead of the desktop dialog.
+
 
 ## Downloads and platform status
 

diff --git a/docs/VALIDATION.md b/docs/VALIDATION.md
@@ -39,3 +39,7 @@ Eight model tests pass. Browser integration now also verifies chip selection, we
 ## Version 1.0.4 customer balances
 
 Ten local model tests passed, including multi-bill carry-forward, payments, edits to earlier linked invoices, credit balances, duplicate-name disambiguation, missing/circular/wrong-customer links. Browser integration passed returning-customer autofill, clearing when switching to a new customer, read-only carried amounts, save/reopen without double-counting, and printed closing balance. Existing calculation and PDF checks also passed.
+
+## Version 1.0.5 deletion and unsaved-work flows
+
+Eleven model tests passed, including safe deletion, restore order, retained invoice numbering and linked balance protection. Browser integration passed deletion confirmation/cancellation, restore, blocked parent deletion, absent demo button, unsaved cancellation/discard, saving business settings before navigation, and staying on invalid drafts. Native Electron tests passed closing via Cancel, Save and Discard, with file contents checked after exit. The existing calculator, PDF, backup and returning-customer checks also passed.

diff --git a/docs/INSTALL.md b/docs/INSTALL.md
@@ -18,6 +18,6 @@ A Mac ZIP contains the app to drag into Applications. A Windows portable ZIP mus
 
 ## First bill
 
-Open **Business settings** and confirm the Urdu business name and contact details. Click **New invoice**, choose/type the customer, then enter each fish, weight and negotiated rate. Rates are per 40 kg and are never fixed by fish name. Save, preview and print using A4 landscape. For the supplied example choose **Try the screenshot example**.
+Open **Business settings** and confirm the Urdu business name and contact details. Click **New invoice**, choose/type the customer, then enter each fish, weight and negotiated rate. Rates are per 40 kg and are never fixed by fish name. Save, preview and print using A4 landscape.
 
 Keep a backup before importing or moving data. The backup format is specific to this app; do not restore an Invoiso database into it.

diff --git a/docs/RELEASE-NOTES.md b/docs/RELEASE-NOTES.md
@@ -1,3 +1,5 @@
+New in 1.0.5: reversible invoice deletion, linked-balance protection, removal of the demo action, and Save / Discard / Cancel for unsaved invoices and settings, including desktop window close.
+
 New in 1.0.4: automatic returning-customer بقایا, account/phone-qualified suggestions, linked balance carry-forward, customer credits, and safe invoice editing without double-counting.
 
 New in 1.0.3: separate Print and Save as PDF buttons. PDF export opens a file-save dialog directly, with an invoice-number filename and embedded Urdu text.
